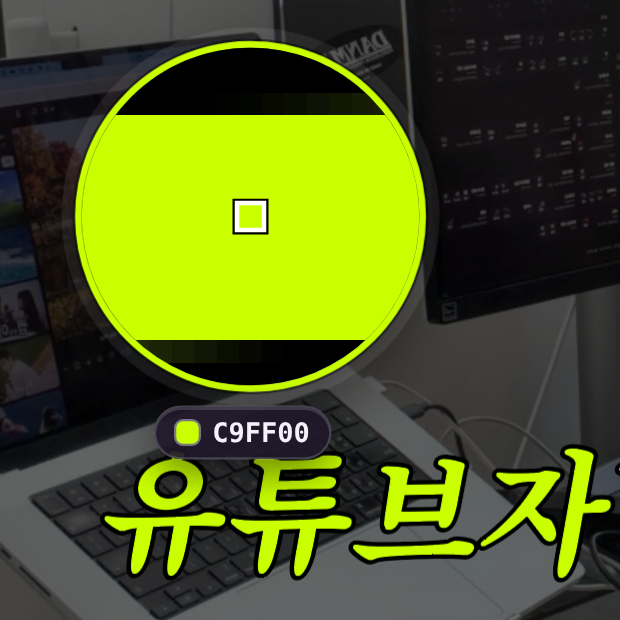
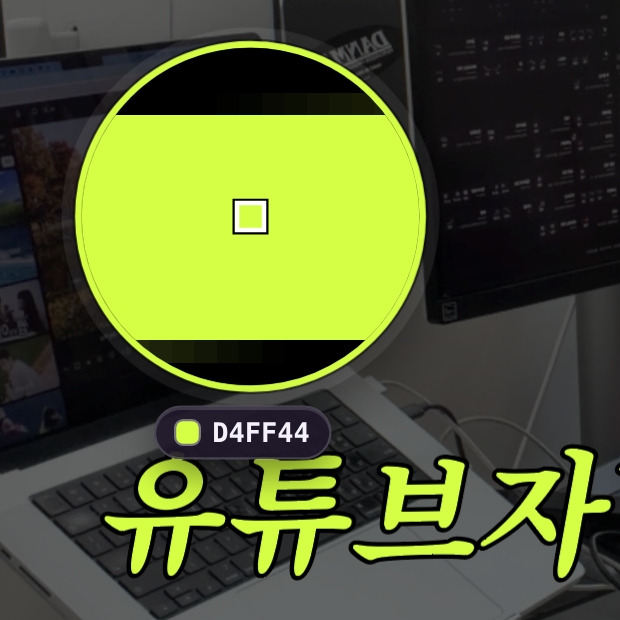
기능 1 예시: 자막 원래 색(D4FF44)으로
Claude-Session: https://claude.ai/code/session_01EN3DvmfasgiLr1rD7UWmUP

Changed region(s): [[0.1226, 0.0613, 0.7048, 0.6435], [0.1532, 0.6742, 1.0, 0.95], [0.4903, 0.5823, 0.5516, 0.6129]]

diff --git a/index.html b/index.html
@@ -199,7 +199,7 @@
     <h2>이런 걸 할 수 있어요</h2>
     <p class="sub2">컴퓨터에 설치하는 위젯이라<br>캡컷 · 파이널컷 · 프리미어 · 일러스트 등<br>어떤 프로그램을 쓰든 같이 쓸 수 있어요.</p>
     <div class="grid4">
-      <div class="feat"><img class="shot" src="img2/feat1.png?v=5"><div class="n">기능 1</div><h3>어디서든 색 수집, 자동 복사</h3><p>위젯을 누르거나 단축키를 누르면 확대경이 떠요.<br>원하는 곳을 찍는 순간 컬러값이 복사돼요.</p></div>
+      <div class="feat"><img class="shot" src="img2/feat1.png?v=6"><div class="n">기능 1</div><h3>어디서든 색 수집, 자동 복사</h3><p>위젯을 누르거나 단축키를 누르면 확대경이 떠요.<br>원하는 곳을 찍는 순간 컬러값이 복사돼요.</p></div>
       <div class="feat"><img class="shot c" src="img2/img.png"><div class="n">기능 2</div><h3>이미지·화면에서 색 조합 뽑기</h3><p>화면을 캡처하거나 이미지를 넣으면<br>추천 조합 5색과 많이 쓰인 색 8개를 뽑아줘요.<br>바로 프로젝트에 저장할 수 있어요.</p></div>
       <div class="feat"><img class="shot c" src="img2/f3.png"><div class="n">기능 3</div><h3>0202 기본 컬러 조합</h3><p>예능 자막, 정보·뉴스 그래픽, 브이로그 감성,<br>파스텔, 시네마틱, 레트로·Y2K, 무채색까지<br>바로 쓸 수 있는 조합이 들어 있어요.</p></div>
       <div class="feat"><img class="shot" src="img2/feat4.png"><div class="n">기능 4</div><h3>프로젝트별 관리 · 팀 공유</h3><p>클라이언트·채널별 폴더에 색을 모아두고,<br>컬러칩 이미지나 공유 코드로 팀원에게 넘겨줘요.<br>폴더 이름까지 그대로 가요.</p></div>
@@ -221,7 +221,7 @@
     <h2>사용 방법</h2>
     <p class="sub2">자주 쓰는 것부터 순서대로 모았어요.</p>
     <div class="use">
-      <div class="row"><div class="im "><img src="img2/loupe.png?v=5"></div><div><h3>🎯 색 뽑기</h3><ol><li>화면의 동그란 위젯 클릭<br>또는 단축키 <b>⌥⌘C</b> (윈도우 <b>Ctrl+Alt+C</b>)</li><li>확대경이 뜨면 원하는 곳 클릭</li><li>컬러값이 바로 복사돼요 · 취소는 Esc</li></ol></div></div>
+      <div class="row"><div class="im "><img src="img2/loupe.png?v=6"></div><div><h3>🎯 색 뽑기</h3><ol><li>화면의 동그란 위젯 클릭<br>또는 단축키 <b>⌥⌘C</b> (윈도우 <b>Ctrl+Alt+C</b>)</li><li>확대경이 뜨면 원하는 곳 클릭</li><li>컬러값이 바로 복사돼요 · 취소는 Esc</li></ol></div></div>
       <div class="row"><div class="im "><img src="img2/img.png"></div><div><h3>🖼 화면 캡처·이미지로<br>색 조합 뽑기</h3><ol><li><b>화면 영역 캡처</b> → 원하는 영역 드래그</li><li>이미지 파일은 <b>이미지에서 색 추출</b><br>또는 팔레트에 끌어놓기</li><li>추천 조합을 프로젝트에 저장</li></ol></div></div>
       <div class="row"><div class="im "><img src="img2/drag.png"></div><div><h3>✋ 드래그앤드롭으로 저장</h3><ol><li>최근 색을 프로젝트 폴더로 끌어놓기</li><li>폴더 안에서 끌면 순서 변경</li><li><b>⌥(Alt)</b>를 누른 채 끌면 복제</li></ol></div></div>
       <div class="row"><div class="im "><img src="img2/plus.png"></div><div><h3>➕ 지금 색 바로 넣기</h3><ol><li>폴더 맨 끝 점선 <b>＋</b> 클릭</li><li>현재 색이 맨 앞에 추가돼요</li><li>＋를 우클릭하면 색 고르기 창</li></ol></div></div>

diff --git a/preview/index.html b/preview/index.html
@@ -14,5 +14,5 @@ h1{font-size:22px;line-height:1.4;margin-bottom:14px}.pr s{color:#aaa;margin-rig
 <header>공이공이 프로덕션 <span style="font-weight:400;color:#999;font-size:13px">· 상세페이지 미리보기</span></header>
 <div class="top"><img src="../store/thumbnail.png"><div><h1>0202Swatch - 어디서든 색 뽑는 스와치 위젯 (맥/윈도우)</h1><div class="pr"><s>9,900원</s><b>4,900원</b></div><div class="btn">구매하기</div></div></div>
 <div class="tabs"><span>상세정보</span></div>
-<div class="detail"><img src="detail.jpg?v=7"></div>
+<div class="detail"><img src="detail.jpg?v=8"></div>
 </body></html>
